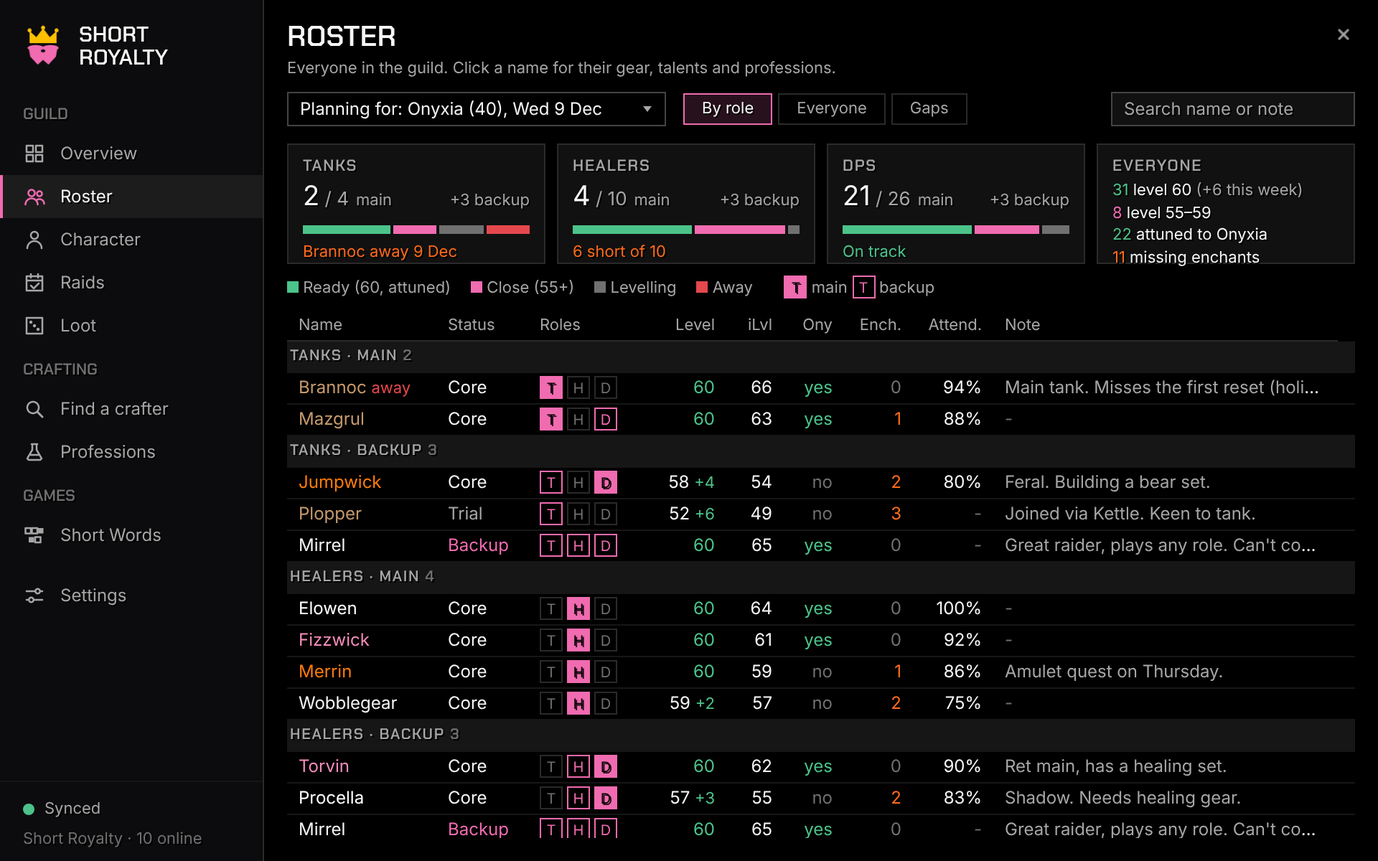
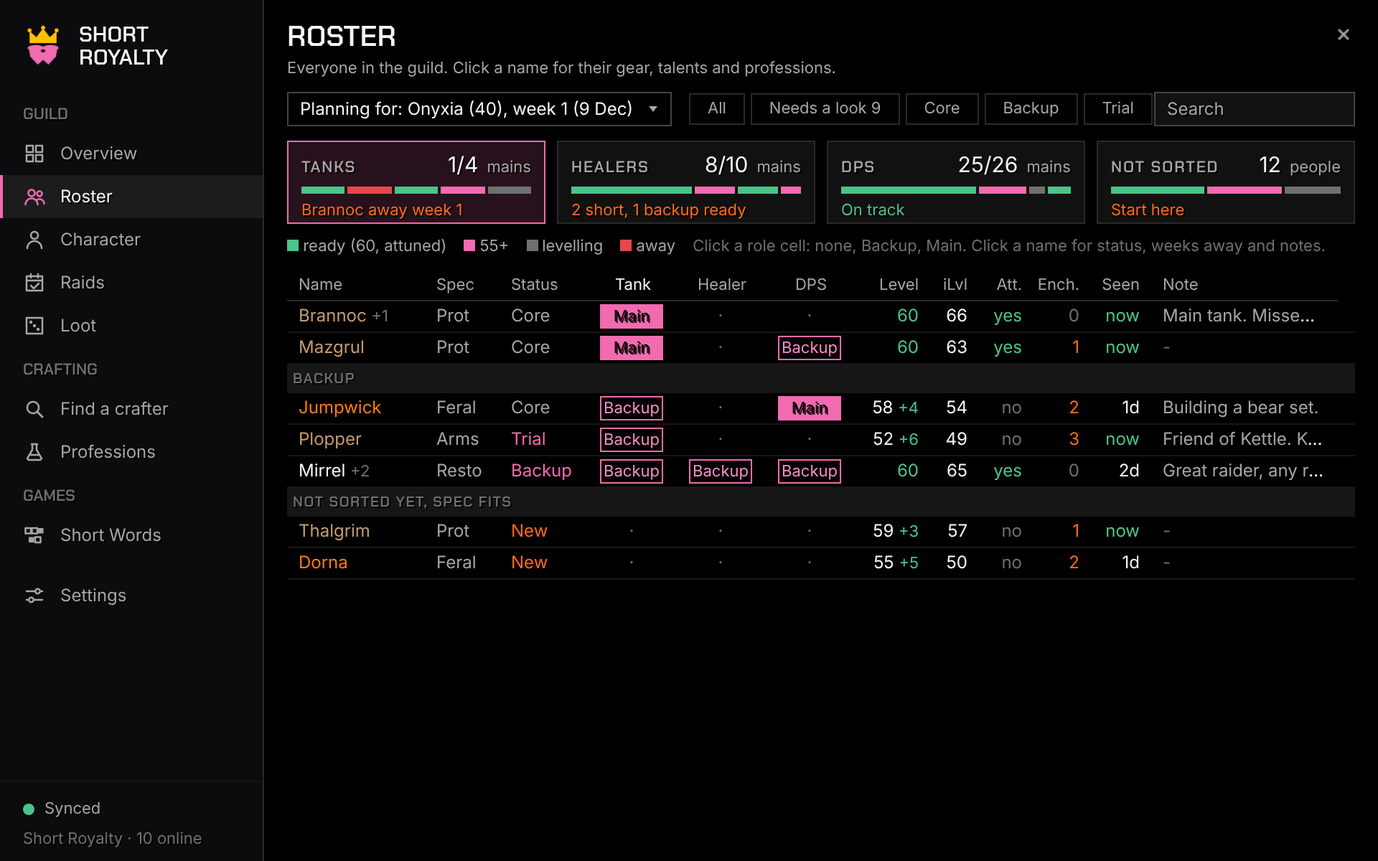
Proposal v2: raid roster planner reworked after review (one row per person, role cells, not-sorted pile, spec, alts, seen, notes by author, away weeks)
Claude-Session: https://claude.ai/code/session_01A7mubGdPYGXe41A4ZcDyrF

diff --git a/preview/index.html b/preview/index.html
@@ -517,84 +517,101 @@ function rosterOfficers() {
     <div class="abs faint small" style="left:${RX}px;top:400px;width:254px;line-height:1.35">Only officers and raid leaders see this page. Changes reach the others online within a minute, and the rest when they log in.</div>`;
 }
 
-// v0.13.0 (proposal): the raid roster planner (officers). Made-up names; the
-// scenario mirrors the officers' examples (a main tank away for the first
-// reset, DPS who can heal as backups, a backup raider who plays anything).
+// v0.13.0 (proposal v2): the raid roster planner (officers). One row per
+// person, like the officers' spreadsheet: role cells (Main / Backup) edited
+// in the list, live level, gear and attunement from the addon. Made-up names;
+// the scenario mirrors the officers' examples.
 function rosterPlanner() {
   const C = (cls, name) => ({ cls, name });
-  // [who, status, roles {T,H,D: m|b}, level, levelGain7d, ilvl, attuned, missing enchants, attendance %, note, away first reset]
+  // [who, spec, status, roles {T,H,D: m|b}, level, gain7d, ilvl, attuned, enchMissing, seenDays, note, noteBy, away wk1, alts, rank]
   const P = [
-    [C("WARRIOR", "Brannoc"), "Core", { T: "m" }, 60, 0, 66, "yes", 0, 94, "Main tank. Misses the first reset (holiday).", true],
-    [C("WARRIOR", "Mazgrul"), "Core", { T: "m", D: "b" }, 60, 0, 63, "yes", 1, 88, "", false],
-    [C("DRUID", "Jumpwick"), "Core", { T: "b", D: "m" }, 58, 4, 54, "no", 2, 80, "Feral. Building a bear set.", false],
-    [C("WARRIOR", "Plopper"), "Trial", { T: "b" }, 52, 6, 49, "no", 3, null, "Joined via Kettle. Keen to tank.", false],
-    [C("PRIEST", "Elowen"), "Core", { H: "m" }, 60, 0, 64, "yes", 0, 100, "", false],
-    [C("PALADIN", "Fizzwick"), "Core", { H: "m" }, 60, 0, 61, "yes", 0, 92, "", false],
-    [C("DRUID", "Merrin"), "Core", { H: "m" }, 60, 0, 59, "no", 1, 86, "Amulet quest on Thursday.", false],
-    [C("SHAMAN", "Wobblegear"), "Core", { H: "m" }, 59, 2, 57, "no", 2, 75, "", false],
-    [C("PALADIN", "Torvin"), "Core", { D: "m", H: "b" }, 60, 0, 62, "yes", 0, 90, "Ret main, has a healing set.", false],
-    [C("PRIEST", "Procella"), "Core", { D: "m", H: "b" }, 57, 3, 55, "no", 2, 83, "Shadow. Needs healing gear.", false],
-    [C("SHAMAN", "Mirrel"), "Backup", { T: "b", H: "b", D: "b" }, 60, 0, 65, "yes", 0, null, "Great raider, plays any role. Can't commit to a schedule: ask on the day.", false],
-    [C("MAGE", "Nixa"), "Core", { D: "m" }, 60, 0, 68, "yes", 0, 97, "", false],
-    [C("ROGUE", "Brambletoe"), "Core", { D: "m" }, 60, 0, 60, "yes", 1, 91, "", false],
-    [C("HUNTER", "Gimbleflax"), "Core", { D: "m" }, 56, 5, 52, "no", 3, 70, "", false],
-    [C("WARLOCK", "Tinkerbolt"), "Trial", { D: "m" }, 49, 7, 45, "no", 3, null, "Friend of Nixa.", false],
+    [C("WARRIOR", "Brannoc"), "Prot", "Core", { T: "m" }, 60, 0, 66, 1, 0, 0, "Main tank. Misses the first reset (holiday).", "Pocus", 1, 1, "Officer"],
+    [C("WARRIOR", "Mazgrul"), "Prot", "Core", { T: "m", D: "b" }, 60, 0, 63, 1, 1, 0, "", "", 0, 0, "Raider"],
+    [C("DRUID", "Jumpwick"), "Feral", "Core", { T: "b", D: "m" }, 58, 4, 54, 0, 2, 1, "Building a bear set.", "Kerath", 0, 0, "Raider"],
+    [C("WARRIOR", "Plopper"), "Arms", "Trial", { T: "b" }, 52, 6, 49, 0, 3, 0, "Friend of Kettle. Keen to tank.", "Kerath", 0, 0, "Member"],
+    [C("SHAMAN", "Mirrel"), "Resto", "Backup", { T: "b", H: "b", D: "b" }, 60, 0, 65, 1, 0, 2, "Great raider, any role. Can't commit: ask on the day.", "Pocus", 0, 2, "Social"],
+    [C("PRIEST", "Elowen"), "Holy", "Core", { H: "m" }, 60, 0, 64, 1, 0, 0, "", "", 0, 0, "Raider"],
+    [C("PALADIN", "Fizzwick"), "Holy", "Core", { H: "m" }, 60, 0, 61, 1, 0, 0, "", "", 0, 0, "Raider"],
+    [C("DRUID", "Merrin"), "Resto", "Core", { H: "m" }, 60, 0, 59, 0, 1, 0, "Amulet quest on Thursday.", "Nura", 0, 0, "Raider"],
+    [C("SHAMAN", "Wobblegear"), "Resto", "Core", { H: "m" }, 59, 2, 57, 0, 2, 4, "", "", 0, 0, "Raider"],
+    [C("PRIEST", "Lunabelle"), "Disc", "", {}, 58, 6, 52, 0, 2, 0, "", "", 0, 0, "Member", "H"],
+    [C("PALADIN", "Torvin"), "Ret", "Core", { D: "m", H: "b" }, 60, 0, 62, 1, 0, 0, "Has a healing set.", "Pocus", 0, 0, "Raider"],
+    [C("PRIEST", "Procella"), "Shadow", "Core", { D: "m", H: "b" }, 57, 3, 55, 0, 2, 9, "Needs healing gear.", "Nura", 0, 0, "Raider"],
+    [C("HUNTER", "Gimbleflax"), "MM", "", {}, 56, 5, 52, 0, 3, 0, "", "", 0, 0, "Member"],
+    [C("WARLOCK", "Tinkerbolt"), "Affli", "", {}, 49, 7, 45, 0, 3, 3, "", "", 0, 0, "Member"],
+    [C("ROGUE", "Quillon"), "Combat", "", {}, 60, 0, 61, 1, 0, 0, "", "", 0, 1, "Member"],
+    [C("WARRIOR", "Thalgrim"), "Prot", "", {}, 59, 3, 57, 0, 1, 0, "", "", 0, 0, "Member", "T"],
+    [C("DRUID", "Dorna"), "Feral", "", {}, 55, 5, 50, 0, 2, 1, "", "", 0, 0, "Member", "T"],
   ];
-  const badge = (r, k) => {
-    const t = r[2][k];
-    const st = t === "m" ? "background:var(--accent);color:var(--onAccent);border-color:var(--accent)"
-      : t === "b" ? "color:var(--accent);border-color:var(--accent)" : "color:var(--faint);border-color:var(--line)";
-    return `<span style="display:inline-flex;width:16px;height:16px;align-items:center;justify-content:center;border:1px solid;font-size:10px;margin-right:3px;box-sizing:border-box;${st}">${k}</span>`;
+  const filter = S.planRole || "T";
+  const roleCell = (r, k) => {
+    const t = r[3][k];
+    if (t === "m") return `<span style="display:inline-block;width:44px;text-align:center;background:var(--accent);color:var(--onAccent);font-size:11px;line-height:17px">Main</span>`;
+    if (t === "b") return `<span style="display:inline-block;width:44px;text-align:center;border:1px solid var(--accent);color:var(--accentLit);font-size:11px;line-height:15px;box-sizing:border-box">Backup</span>`;
+    return `<span class="faint" style="display:inline-block;width:44px;text-align:center">·</span>`;
   };
-  const lvl = (r) => r[3] === 60 ? `<span class="good">60</span>` : `${r[3]}${r[4] ? ` <span class="good small">+${r[4]}</span>` : ""}`;
-  const att = (r) => r[6] === "yes" ? `<span class="good">yes</span>` : `<span class="faint">no</span>`;
-  const ench = (r) => r[7] ? `<span class="spark">${r[7]}</span>` : `<span class="faint">0</span>`;
-  const W = { n: 104, s: 64, r: 80, l: 58, i: 40, a: 42, e: 48, p: 56 };
-  if (S.planSel) { delete W.p; }
-  const NW = S.planSel ? 0 : 744 - Object.values(W).reduce((a, b) => a + b, 0) - 16;
+  const W = { n: 96, sp: 52, st: 62, T: 62, H: 62, D: 62, l: 52, i: 34, a: 38, e: 40, seen: 42 };
+  if (S.planSel) { delete W.seen; delete W.e; delete W.sp; delete W.i; }
+  const NW = S.planSel ? 0 : 744 - Object.values(W).reduce((a, b) => a + b, 0) - 14;
   const cell = (w, html, r) => `<span class="cell ${r ? "r" : ""}" style="width:${w}px">${html}</span>`;
-  const row = (r) => `<div class="row click ${S.planSel && r[0].name === "Mirrel" ? "sel" : ""}">${cell(W.n, cls(r[0]) + (r[10] ? ' <span class="bad small">away</span>' : ""))}${cell(W.s, `<span class="${r[1] === "Core" ? "" : r[1] === "Backup" ? "acc" : "dim"}">${r[1]}</span>`)}${cell(W.r, badge(r, "T") + badge(r, "H") + badge(r, "D"))}${cell(W.l, lvl(r), 1)}${cell(W.i, r[5], 1)}${cell(W.a, att(r), 1)}${cell(W.e, ench(r), 1)}${S.planSel ? "" : cell(W.p, r[8] ? r[8] + "%" : DASH, 1) + cell(NW, r[9] ? `<span class="dim">${esc(r[9])}</span>` : DASH)}</div>`;
-  const section = (title, rs) => `<div class="row" style="height:22px;background:var(--rule)"><span class="display dim" style="font-size:10.5px;letter-spacing:.08em;padding-left:2px">${title}  <span class="faint">${rs.length}</span></span></div>` + rs.map(row).join("");
-  const has = (k, t) => P.filter((r) => r[2][k] === t);
-  const body = section("TANKS · MAIN", has("T", "m")) + section("TANKS · BACKUP", has("T", "b")) + section("HEALERS · MAIN", has("H", "m"))
-    + section("HEALERS · BACKUP", has("H", "b")) + section("DPS · MAIN", has("D", "m").slice(0, 6));
-  const head = `<div class="lhead">${[["n", "Name"], ["s", "Status"], ["r", "Roles"], ["l", "Level", 1], ["i", "iLvl", 1], ["a", "Ony", 1], ["e", "Ench.", 1], ["p", "Attend.", 1]].filter(([k]) => W[k]).map(([k, t, r]) => `<span class="${r ? "r" : ""}" style="width:${W[k]}px">${t}</span>`).join("")}${S.planSel ? "" : `<span style="width:${NW}px">Note</span>`}</div>`;
-  // Coverage for the chosen raid: ready = 60 and attuned, close = 55+, levelling = below 55, away = can't make it.
-  const covCard = (title, need, main, backup, segs, line) => `<div style="width:180px;height:84px;box-sizing:border-box;border:1px solid var(--line);background:var(--surface);padding:7px 10px">
-      <div class="display dim" style="font-size:11px;letter-spacing:.08em">${title}</div>
-      <div style="display:flex;align-items:baseline;gap:5px;margin-top:1px;white-space:nowrap"><span style="font-size:19px">${main}<span class="dim" style="font-size:13px"> / ${need}</span></span><span class="dim small">main</span><span class="dim small" style="margin-left:auto">+${backup} backup</span></div>
-      <div style="display:flex;height:6px;margin:6px 0 5px;gap:2px">${segs.map(([n, c]) => `<i style="flex:${n};background:var(--${c})"></i>`).join("")}</div>
-      <div class="small ${line[1] || "dim"}" style="white-space:nowrap;overflow:hidden;text-overflow:ellipsis">${line[0]}</div></div>`;
-  const cov = `<div class="abs" style="left:0;right:0;top:36px;display:flex;gap:8px">
-      ${covCard("TANKS", 4, 2, 3, [[2, "good"], [1, "accent"], [1, "faint"], [1, "bad"]], ["Brannoc away 9 Dec", "spark"])}
-      ${covCard("HEALERS", 10, 4, 3, [[4, "good"], [3, "accent"], [0.4, "faint"]], ["6 short of 10", "spark"])}
-      ${covCard("DPS", 26, 21, 3, [[14, "good"], [7, "accent"], [3, "faint"]], ["On track", "good"])}
-      <div style="width:180px;height:84px;box-sizing:border-box;border:1px solid var(--line);background:var(--surface);padding:7px 10px">
-        <div class="display dim" style="font-size:11px;letter-spacing:.08em">EVERYONE</div>
-        <div class="small" style="margin-top:2px;line-height:1.4;white-space:nowrap"><span class="good">31</span> level 60 <span class="dim">(+6 this week)</span><br><span class="acc">8</span> level 55–59<br><span class="good">22</span> attuned to Onyxia<br><span class="spark">11</span> missing enchants</div></div></div>`;
-  const legend = `<div class="abs small dim" style="left:0;top:128px;display:flex;gap:14px;align-items:center">
-      <span><i style="display:inline-block;width:8px;height:8px;background:var(--good)"></i> Ready (60, attuned)</span><span><i style="display:inline-block;width:8px;height:8px;background:var(--accent)"></i> Close (55+)</span>
-      <span><i style="display:inline-block;width:8px;height:8px;background:var(--faint)"></i> Levelling</span><span><i style="display:inline-block;width:8px;height:8px;background:var(--bad)"></i> Away</span>
-      <span style="margin-left:8px">${badge({ 2: { T: "m" } }, "T")}main ${badge({ 2: { T: "b" } }, "T")}backup</span></div>`;
-  const top = `<div class="menu abs" style="left:0;top:0;width:264px">${btn("Planning for: Onyxia (40), Wed 9 Dec").replace("</span>", '<i class="arrow"></i></span>')}</div>
-    <div class="abs" style="left:276px;top:1px;display:flex;gap:4px">${["By role", "Everyone", "Gaps"].map((t, i) => `<span class="chip ${i === 0 ? "on" : ""}">${t}</span>`).join("")}</div>
-    <div class="search" style="position:absolute;left:574px;top:0;width:170px"><input placeholder="Search name or note" value=""></div>`;
-  const listW = S.planSel ? 744 - 292 : 744;
-  const lst = `<div class="list" style="left:0;top:150px;bottom:0;width:${listW}px">${head}<div class="lbody" style="top:var(--sz-header)">${body}</div></div>`;
+  const row = (r, idx) => {
+    const away = r[12] ? ' <span class="bad small">away wk 1</span>' : "";
+    const cells = [cell(W.n, cls(r[0]) + (r[13] ? ` <span class="faint small">+${r[13]}</span>` : "")),
+      W.sp ? cell(W.sp, `<span class="dim">${r[1]}</span>`) : "",
+      cell(W.st, r[2] ? `<span class="${r[2] === "Core" ? "dim" : "acc"}">${r[2] === "Backup" ? "Backup" : r[2]}</span>` : `<span class="spark">New</span>`),
+      cell(W.T, roleCell(r, "T")), cell(W.H, roleCell(r, "H")), cell(W.D, roleCell(r, "D")),
+      cell(W.l, r[4] === 60 ? `<span class="good">60</span>` : `${r[4]}${r[5] ? ` <span class="good small">+${r[5]}</span>` : ""}`, 1),
+      W.i ? cell(W.i, r[6], 1) : "", cell(W.a, r[7] ? `<span class="good">yes</span>` : `<span class="faint">no</span>`, 1)];
+    if (W.e) cells.push(cell(W.e, r[8] ? `<span class="spark">${r[8]}</span>` : `<span class="faint">0</span>`, 1));
+    if (W.seen) cells.push(cell(W.seen, r[9] >= 7 ? `<span class="spark">${r[9]}d</span>` : r[9] ? `${r[9]}d` : `<span class="good">now</span>`, 1));
+    if (!S.planSel) cells.push(cell(NW, r[10] ? `<span class="dim">${esc(r[10])}</span>${away}` : (away || DASH)));
+    return `<div class="row click ${S.planSel && r[0].name === "Mirrel" ? "sel" : ""}">${cells.join("")}</div>`;
+  };
+  const shown = filter === "N" ? P.filter((r) => !r[2]) : P.filter((r) => r[3][filter]).sort((a, b) => (a[3][filter] === "m" ? 0 : 1) - (b[3][filter] === "m" ? 0 : 1));
+  const sep = (t) => `<div class="row" style="height:20px;background:var(--rule)"><span class="display faint" style="font-size:10px;letter-spacing:.08em;padding-left:4px">${t}</span></div>`;
+  let body = "";
+  if (filter === "N") body = shown.map(row).join("");
+  else {
+    const mains = shown.filter((r) => r[3][filter] === "m"), backs = shown.filter((r) => r[3][filter] === "b");
+    body = mains.map(row).join("") + sep("BACKUP") + backs.map(row).join("") + sep("NOT SORTED YET, SPEC FITS")
+      + P.filter((r) => !r[2] && r[15] === filter).map(row).join("");
+  }
+  const headCols = [["n", "Name"], ["sp", "Spec"], ["st", "Status"], ["T", "Tank"], ["H", "Healer"], ["D", "DPS"], ["l", "Level", 1], ["i", "iLvl", 1], ["a", "Att.", 1], ["e", "Ench.", 1], ["seen", "Seen", 1]];
+  const head = `<div class="lhead">${headCols.filter(([k]) => W[k]).map(([k, t, r]) => `<span class="${r ? "r" : ""} ${k === filter ? "sorted" : ""}" style="width:${W[k]}px;${"THD".includes(k) && k.length === 1 ? "justify-content:center" : ""}">${t}</span>`).join("")}${S.planSel ? "" : `<span style="width:${NW}px">Note</span>`}</div>`;
+  // Coverage pills: click one to show that role (mains, then backups). Bar: ready (60 + attuned) / close (55+) / levelling / away.
+  const pill = (k, title, big, sub, segs, line, tone) => `<div style="width:180px;height:58px;box-sizing:border-box;border:1px solid var(--${filter === k ? "accent" : "line"});background:${filter === k ? "var(--accent-selected)" : "var(--surface)"};padding:5px 9px;cursor:pointer">
+      <div style="display:flex;align-items:baseline;gap:6px;white-space:nowrap"><span class="display dim" style="font-size:11px;letter-spacing:.08em">${title}</span><span style="font-size:15px;margin-left:auto">${big}</span><span class="dim small">${sub}</span></div>
+      <div style="display:flex;height:5px;margin:5px 0 4px;gap:2px">${segs.map(([n, c]) => `<i style="flex:${n};background:var(--${c})"></i>`).join("")}</div>
+      <div class="small ${tone}" style="white-space:nowrap;overflow:hidden;text-overflow:ellipsis">${line}</div></div>`;
+  const cov = `<div class="abs" style="left:0;right:0;top:34px;display:flex;gap:8px">
+      ${pill("T", "TANKS", "1/4", "mains", [[1, "good"], [1, "bad"], [1, "good"], [1, "accent"], [1, "faint"]], "Brannoc away week 1", "spark")}
+      ${pill("H", "HEALERS", "8/10", "mains", [[6, "good"], [2, "accent"], [2, "good"], [1, "accent"]], "2 short, 1 backup ready", "spark")}
+      ${pill("D", "DPS", "25/26", "mains", [[17, "good"], [6, "accent"], [2, "faint"], [3, "good"]], "On track", "good")}
+      ${pill("N", "NOT SORTED", "12", "people", [[5, "good"], [4, "accent"], [3, "faint"]], "Start here", "spark")}</div>`;
+  const legend = `<div class="abs small dim" style="left:0;top:100px;display:flex;gap:12px;align-items:center;white-space:nowrap">
+      <span><i style="display:inline-block;width:8px;height:8px;background:var(--good)"></i> ready (60, attuned)</span><span><i style="display:inline-block;width:8px;height:8px;background:var(--accent)"></i> 55+</span>
+      <span><i style="display:inline-block;width:8px;height:8px;background:var(--faint)"></i> levelling</span><span><i style="display:inline-block;width:8px;height:8px;background:var(--bad)"></i> away</span>
+      <span class="faint" style="margin-left:auto">Click a role cell: none, Backup, Main. Click a name for status, weeks away and notes.</span></div>`;
+  const top = `<div class="menu abs" style="left:0;top:0;width:268px">${btn("Planning for: Onyxia (40), week 1 (9 Dec)").replace("</span>", '<i class="arrow"></i></span>')}</div>
+    <div class="abs" style="left:280px;top:1px;display:flex;gap:4px">${["All", "Needs a look 9", "Core", "Backup", "Trial"].map((t, i) => `<span class="chip">${t}</span>`).join("")}</div>
+    <div class="search" style="position:absolute;left:604px;top:0;width:140px"><input placeholder="Search" value=""></div>`;
+  const listW = S.planSel ? 744 - 290 : 744;
+  const lst = `<div class="list" style="left:0;top:122px;bottom:0;width:${listW}px">${head}<div class="lbody" style="top:var(--sz-header)">${body}</div></div>`;
   let drawer = "";
   if (S.planSel) {
-    const seg = (opts, on) => `<span style="display:inline-flex;border:1px solid var(--lineStrong)">${opts.map((o) => `<span style="padding:2px 8px;font-size:12px;${o === on ? "background:var(--accent);color:var(--onAccent)" : "color:var(--dim)"}">${o}</span>`).join("")}</span>`;
+    const seg = (opts, on) => `<span style="display:inline-flex;border:1px solid var(--lineStrong)">${opts.map((o) => `<span style="padding:2px 7px;font-size:12px;${o === on ? "background:var(--accent);color:var(--onAccent)" : "color:var(--dim)"}">${o}</span>`).join("")}</span>`;
     const lbl = (t, y) => `<div class="abs display dim" style="left:14px;top:${y}px;font-size:10.5px;letter-spacing:.08em">${t}</div>`;
-    drawer = `<div class="abs" style="right:0;top:150px;bottom:0;width:284px;background:var(--surface);border:1px solid var(--lineStrong)">
-      <div class="abs" style="left:14px;top:8px;font-size:15px">${cls(C("SHAMAN", "Mirrel"))}</div>
-      <div class="abs dim small" style="left:14px;top:28px">Level 60  ·  iLvl 65  ·  attuned  ·  0 enchants missing</div>
-      ${lbl("STATUS", 50)}<div class="abs" style="left:14px;top:66px">${seg(["Core", "Backup", "Trial", "Not raiding"], "Backup")}</div>
-      ${lbl("ROLES", 96)}
-      ${["Tank", "Healer", "DPS"].map((r, i) => `<div class="abs small" style="left:14px;top:${112 + i * 24}px;width:60px;line-height:22px">${r}</div><div class="abs" style="left:76px;top:${112 + i * 24}px">${seg(["-", "Backup", "Main"], "Backup")}</div>`).join("")}
-      ${lbl("CAN'T MAKE (OFFICER-SET)", 190)}<div class="abs" style="left:14px;top:206px;display:flex;gap:4px;width:256px">${["Wed 9 Dec", "Fri 11 Dec", "Wed 16 Dec"].map((d, i) => `<span class="chip ${i === 1 ? "on" : ""}">${d}</span>`).join("")}</div>
-      ${lbl("OFFICER NOTE", 240)}<div class="abs small" style="left:14px;top:256px;width:256px;height:50px;padding:5px 8px;box-sizing:border-box;background:var(--void);border:1px solid var(--lineStrong);line-height:1.35">Great raider, plays any role. Can't commit to a schedule: ask on the day.</div>
-      <div class="abs" style="left:14px;top:314px">${btn("Save note", "primary")} ${btn("Character")}</div>
-      <div class="abs faint small" style="left:14px;top:348px;width:256px">Last 7 days: no change. Seen 2 h ago.</div></div>`;
+    drawer = `<div class="abs" style="right:0;top:122px;bottom:0;width:282px;background:var(--surface);border:1px solid var(--lineStrong)">
+      <div class="abs" style="left:14px;top:8px;font-size:15px">${cls(C("SHAMAN", "Mirrel"))} <span class="dim small">Social</span></div>
+      <div class="abs dim small" style="left:14px;top:28px;width:256px;line-height:1.4">Resto (0/21/30)  ·  level 60  ·  iLvl 65  ·  attuned<br>Alts: <span style="color:#F48CBA">Mirrelia</span> 60 Holy, Mirrbank 12</div>
+      ${lbl("STATUS", 66)}<div class="abs" style="left:14px;top:82px">${seg(["Core", "Backup", "Trial", "Not raiding"], "Backup")}</div>
+      ${lbl("AWAY (RESET WEEKS)", 112)}<div class="abs" style="left:14px;top:128px;display:flex;gap:4px">${["Wk 1 · 9 Dec", "Wk 2", "Wk 3", "Wk 4"].map((d, i) => `<span class="chip ${i === 1 ? "on" : ""}">${d}</span>`).join("")}</div>
+      ${lbl("NOTES", 160)}
+      <div class="abs small" style="left:14px;top:176px;width:256px;line-height:1.35"><span class="dim">Pocus, 2 days ago:</span> Great raider, plays any role. Can't commit to a schedule: ask on the day.</div>
+      <div class="abs small" style="left:14px;top:226px;width:256px;line-height:1.35"><span class="dim">Nura, today:</span> Said yes to week 1 as healer.</div>
+      <div class="abs small faint" style="left:14px;top:262px;width:256px;height:30px;padding:6px 8px;box-sizing:border-box;background:var(--void);border:1px solid var(--lineStrong)">Add a note…</div>
+      <div class="abs" style="left:14px;top:300px">${btn("Add note", "primary")} ${btn("Character")}</div>
+      <div class="abs faint small" style="left:14px;top:334px;width:256px">Last 7 days: no change  ·  seen 2 days ago.</div></div>`;
   }
   return top + cov + legend + lst + drawer;
 }
@@ -1363,7 +1380,7 @@ function seg(id) {
 try { Object.assign(S, JSON.parse(localStorage.getItem("skPreview") || "{}")); } catch (e) { /* ignore */ }
 // ?screen=roster&data=worst&view=before&raid=ony  (and &shot=1 for the README pictures: window only, no chrome)
 const Q = new URLSearchParams(location.search);
-for (const k of ["screen", "data", "view", "raid", "prof", "profView", "start", "crafter", "remind", "model", "accent", "font", "setView", "wordsView", "wordsBoard", "wordsDone", "wordsCB", "raidsView", "attView", "officer", "lootView", "lootMode", "rosterView", "planSel"]) if (Q.get(k)) S[k] = Q.get(k);
+for (const k of ["screen", "data", "view", "raid", "prof", "profView", "start", "crafter", "remind", "model", "accent", "font", "setView", "wordsView", "wordsBoard", "wordsDone", "wordsCB", "raidsView", "attView", "officer", "lootView", "lootMode", "rosterView", "planSel", "planRole"]) if (Q.get(k)) S[k] = Q.get(k);
 const SHOT = Q.get("shot");
 if (SHOT) {
   document.body.classList.add("shot"); S.view = SHOT === "compare" ? "before" : "after"; S.reduce = true;

diff --git a/docs/mockups/render.js b/docs/mockups/render.js
@@ -44,7 +44,7 @@ const SHOTS = {
   "raids-calendar": ["shot=1&screen=raids&data=full&raidsView=calendar", W, H],
   "roster-officers": ["shot=1&screen=roster&data=full&officer=1&rosterView=officers", W, H],
   "roster-planner": ["shot=1&screen=roster&data=full&officer=1&rosterView=planner", W, H],
-  "roster-planner-edit": ["shot=1&screen=roster&data=full&officer=1&rosterView=planner&planSel=1", W, H],
+  "roster-planner-edit": ["shot=1&screen=roster&data=full&officer=1&rosterView=planner&planSel=1&planRole=H", W, H],
   "raids-new": ["shot=1&screen=raids&data=full&officer=1&raidsView=new", W, H],
   "raids-attendance": ["shot=1&screen=raids&data=full&officer=1&raidsView=attendance", W, H],
   "raids-totals": ["shot=1&screen=raids&data=full&officer=1&raidsView=attendance&attView=totals", W, H],

diff --git a/docs/proposals/raid-roster-planner.md b/docs/proposals/raid-roster-planner.md
@@ -11,39 +11,51 @@ addon already has the level, gear, enchants and attunement data.
 Pictures (mock-ups, made-up names): `docs/images/roster-planner.png`,
 `docs/images/roster-planner-edit.png`.
 
-## What it is
+## What it is (version 2, after reviewing version 1 against the message)
 
 The Roster page's **Officers** view becomes the **roster planner**
-(officers and raid leaders with `/sr officer`; members never see it).
+(officers and raid leaders with `/sr officer`; members never see it). It
+works like the officers' spreadsheet, **one row per person**, but the
+level, gear, attunement and spec fill themselves in from the addon.
 
-1. **Planning for** a raid and date (default: the next raid, or Onyxia on
-   9 Dec until one is made). It sets the role targets and who's away.
-2. **Coverage cards** for Tanks, Healers and DPS: mains available out of the
-   target, plus backups, and a bar of who's **ready** (level 60 and attuned
-   for that raid), **close** (55+), **levelling** or **away**. A one-line
-   gap under each ("Brannoc away 9 Dec", "6 short of 10"). An **Everyone**
-   card: how many are 60 (and how many reached it this week), 55–59,
-   attuned, missing enchants.
-3. **The list**, grouped by role (Tanks main, Tanks backup, Healers main…;
-   a player shows in every group they fill). Columns: name, status, role
-   badges (filled = main, outline = backup), level (with "+4" levels in the
-   last 7 days), item level, attuned, missing enchants, attendance %, note.
-   Chips: **By role**, **Everyone** (one row each, sortable), **Gaps** (only
-   people with something to chase: not 60, not attuned, missing enchants,
-   or old data). Right-click opens their Character page (gear, talents).
-4. **Click a name** for the side panel: **Status** (Core, Backup raider,
-   Trial, Not raiding), **Main / Backup / no** for Tank, Healer and DPS,
-   **Can't make** (raid dates an officer marks for them, on top of the
-   away days players set themselves), the officer **note**, and the last 7
-   days' progress.
+1. **Planning for** a raid and **reset week** (default: Onyxia, week 1 =
+   9 Dec). It sets the role targets and who's away that week.
+2. **Four coverage tiles**: Tanks, Healers, DPS (mains available that week
+   out of the target, a bar of ready / 55+ / levelling / away, one gap line)
+   and **Not sorted** (people with no status or roles yet: "start here").
+   Clicking a tile filters the list to that role: its mains, then its
+   backups, then **unsorted people whose spec fits** (e.g. an unsorted Prot
+   warrior shows under Tanks). Nobody appears twice.
+3. **The list**: name (class colour, "+2" = alts), spec, status, **Tank /
+   Healer / DPS cells** (Main filled, Backup outlined; **click a cell** to
+   cycle none → Backup → Main, like typing in a spreadsheet), level with
+   "+4" gained in 7 days, item level, attuned, missing enchants, **seen**
+   (how old their data is; orange after a week), note (hover for all of it).
+   Chips: All, **Needs a look** (not 60, not attuned, missing enchants or
+   old data), Core, Backup, Trial. Right-click opens their Character page.
+4. **Click a name** for the side panel: spec with talent points, level,
+   item level, attunement, **alts**, **status** (Core, Backup raider,
+   Trial, Not raiding), **away by reset week** (on top of the away days
+   players set themselves), **notes with who wrote them and when** (several
+   officers can add notes), and the last 7 days' progress.
+
+### What changed from version 1 (and why)
+
+- One row per person instead of a row per role (version 1 listed a player
+  up to three times).
+- Role cells you click in the list instead of tiny T/H/D badges.
+- Added: a **Not sorted** pile (the officers don't know everyone yet),
+  **spec**, **alts**, **seen** (is the progress real?), note authors,
+  rank (in the panel), away by **reset week** ("misses the first reset").
+- Smaller tiles, so the list gets more of the 600-pixel window.
 
 ## Examples from the feedback
 
 | Need | In the planner |
 |---|---|
-| Two main tanks, one misses the first reset | Both Tank: Main; tick "Wed 9 Dec" under Can't make for the absent one. The Tanks card shows 1 of 2 mains on 9 Dec and the backups' progress. |
-| Backup tanks | Tank: Backup. They show under Tanks · Backup with level (+gain), item level, attunement. |
-| DPS mains who can heal | DPS: Main, Healer: Backup. They count in both cards. |
+| Two main tanks, one misses the first reset | Both Tank: Main; tick "Wk 1" under Away for the absent one. The Tanks tile shows the gap for week 1 and the backups' progress. |
+| Backup tanks | Tank: Backup. They show under Tanks after the mains, with level (+gain), item level, attunement and how fresh the data is. |
+| DPS mains who can heal | DPS: Main, Healer: Backup. They count in both tiles. |
 | A great raider who can't commit | Status: Backup raider, all roles Backup, a note for the other officers. |
 
 ## How it's built (for the record)
@@ -51,7 +63,9 @@ The Roster page's **Officers** view becomes the **roster planner**
 - Extends the v0.10.1 officer roster (`Core/OfficerDir.lua`, shared only
   between officers by whisper, OR/OQ). New entry kinds: **role tiers**
   (Main/Backup per role; replaces the plain roles, which carry over as
-  Main), **status**, **can't make** (dates). Officers on v0.12.0 ignore the
+  Main), **status**, **away weeks**, and **notes from several officers**
+  (each officer's note kept with its author and date; today's single note
+  carries over). Officers on v0.12.0 ignore the
   new kinds safely; everyone needs the new version to see them.
 - **Progress**: each officer's game remembers each member's level and item
   level once a day (kept 30 days, local), for the "+4 in 7 days" figures.
@@ -73,3 +87,5 @@ The Roster page's **Officers** view becomes the **roster planner**
 2. **Ready** = level 60 and attuned for that raid. Add an officer-set item
    level target too (shown as "below 58")? Default: yes, optional.
 3. **Status** names: Core, Backup raider, Trial, Not raiding. OK?
+4. **Window size**: 50+ rows in a 960 × 600 window means scrolling. Make
+   the window resizable (taller) for this page? Default: yes.
